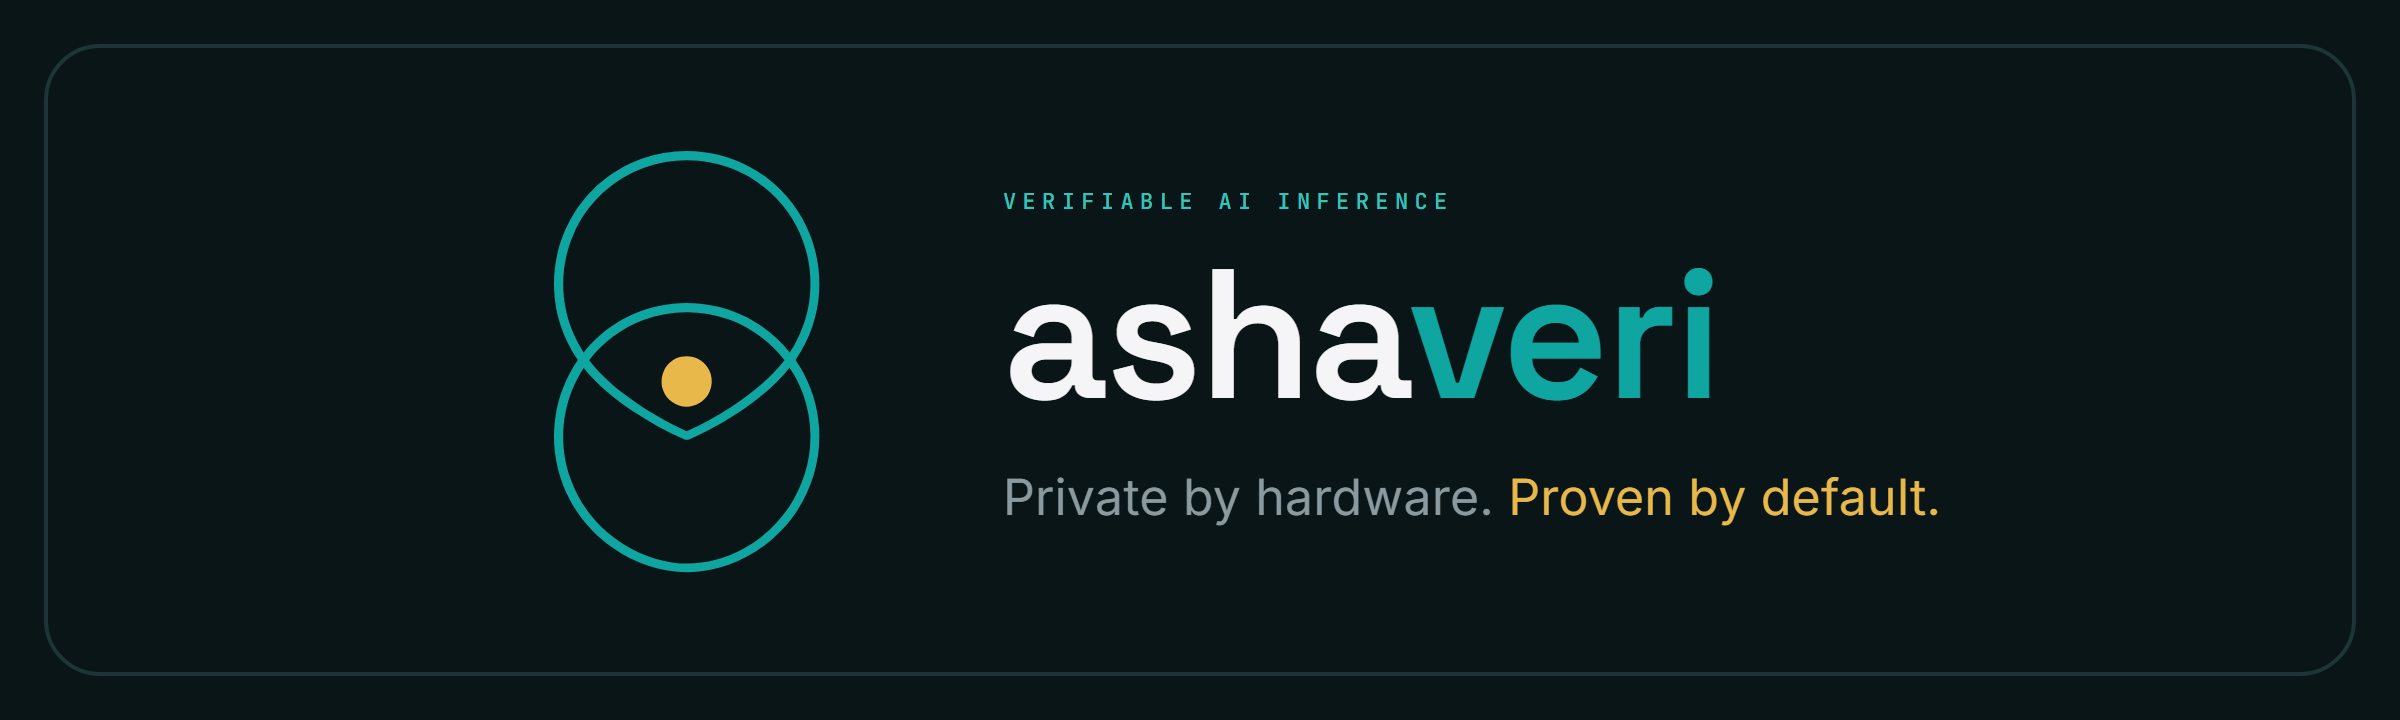
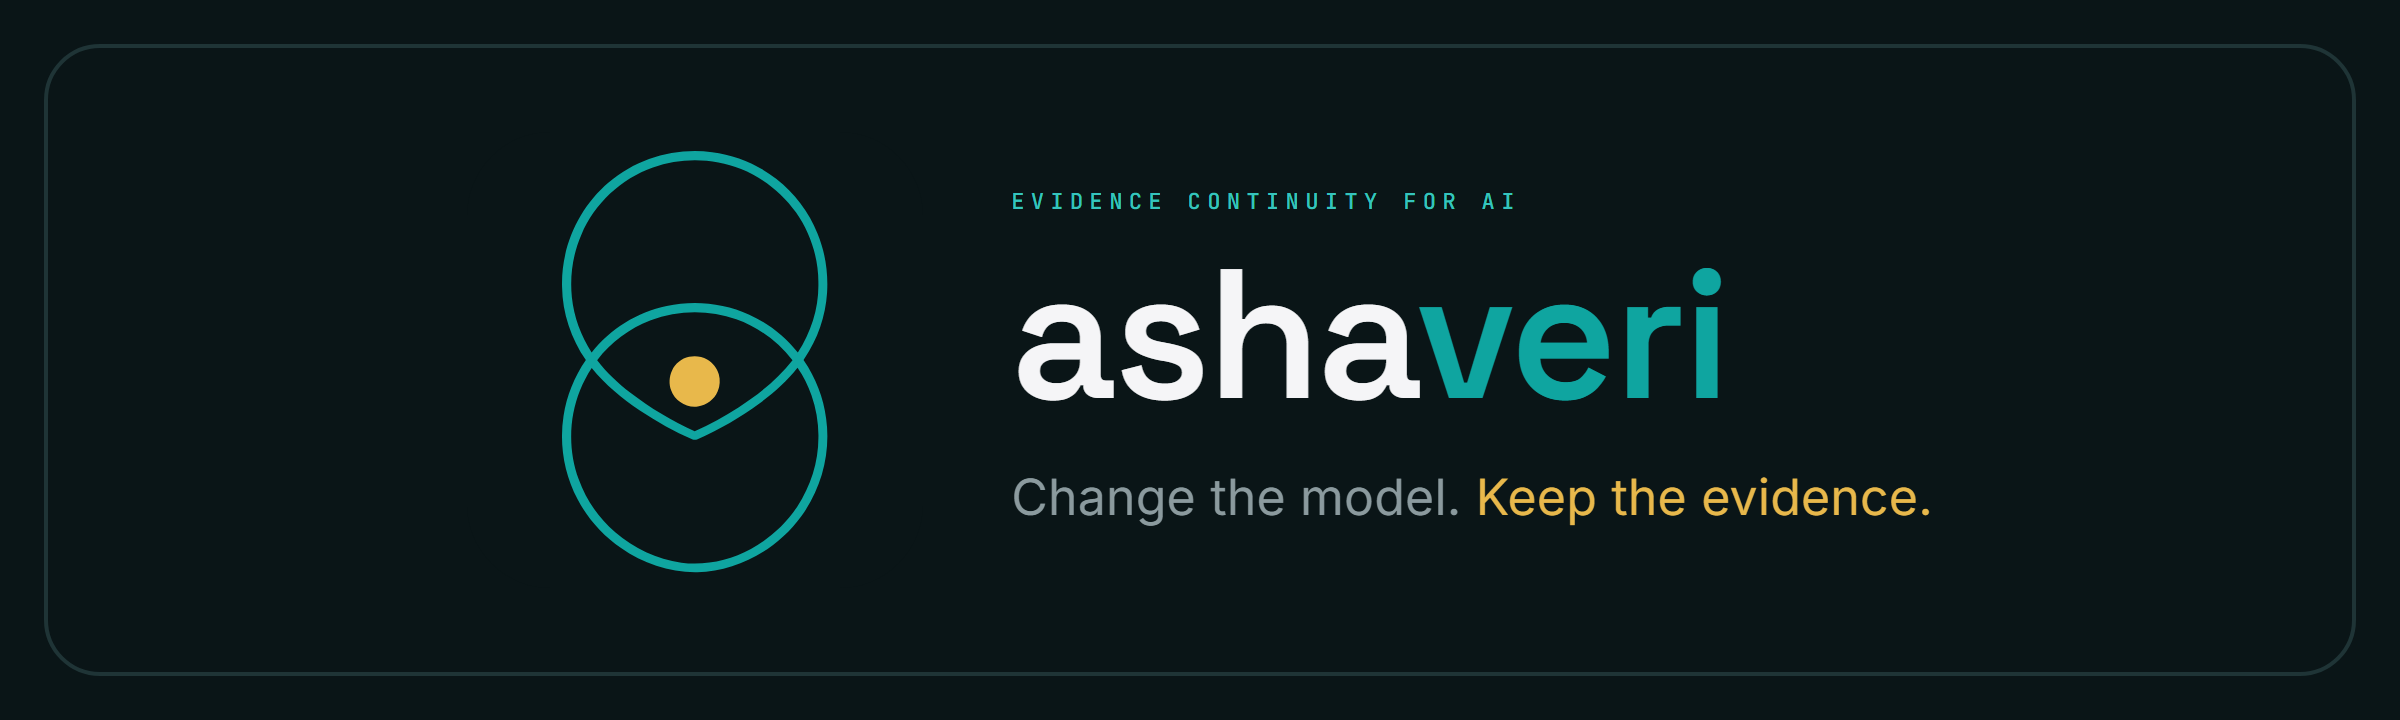
docs(readme): name the layer as evidence continuity
The strapline led with hardware privacy, which is the one axis where other
projects already ship the same thing, and it is a claim about the host
rather than about what the customer keeps. The position is now that a model
can change and the evidence does not, so the opening line and the banner
say that instead.

The banner image is generated from committed source rather than edited as a
bitmap, so the PNG and the README alt text cannot drift apart. The rest of
the paragraph is untouched: what this repository issues, and what a receipt
binds, did not change.

diff --git a/README.md b/README.md
@@ -1,7 +1,7 @@
 <div align="center">
 
 <a href="https://github.com/ashaveri/ashaveri">
-  <img src="assets/ashaveri-banner.png" width="1200" alt="ashaveri. Private by hardware. Proven by default." />
+  <img src="assets/ashaveri-banner.png" width="1200" alt="ashaveri. Change the model. Keep the evidence." />
 </a>
 
 <a href="https://github.com/ashaveri/ashaveri/actions/workflows/ci.yml"><img src="https://img.shields.io/github/actions/workflow/status/ashaveri/ashaveri/ci.yml?branch=main&label=CI&labelColor=0A1517&color=0FA5A0" alt="CI on main" /></a>
@@ -21,7 +21,7 @@
 
 # ashaveri
 
-ashaveri is the verifiable AI inference layer: OpenAI-compatible inference where every completion
+ashaveri is the evidence layer under an AI workflow: OpenAI-compatible inference where every completion
 comes back with a signed receipt. A receipt is a COSE_Sign1 document binding the request hash, the
 response hash, the model, the weights manifest, and the measurement of the confidential hardware
 that answered, and `@ashaveri/sdk` verifies it before your code sees the answer. No verification
